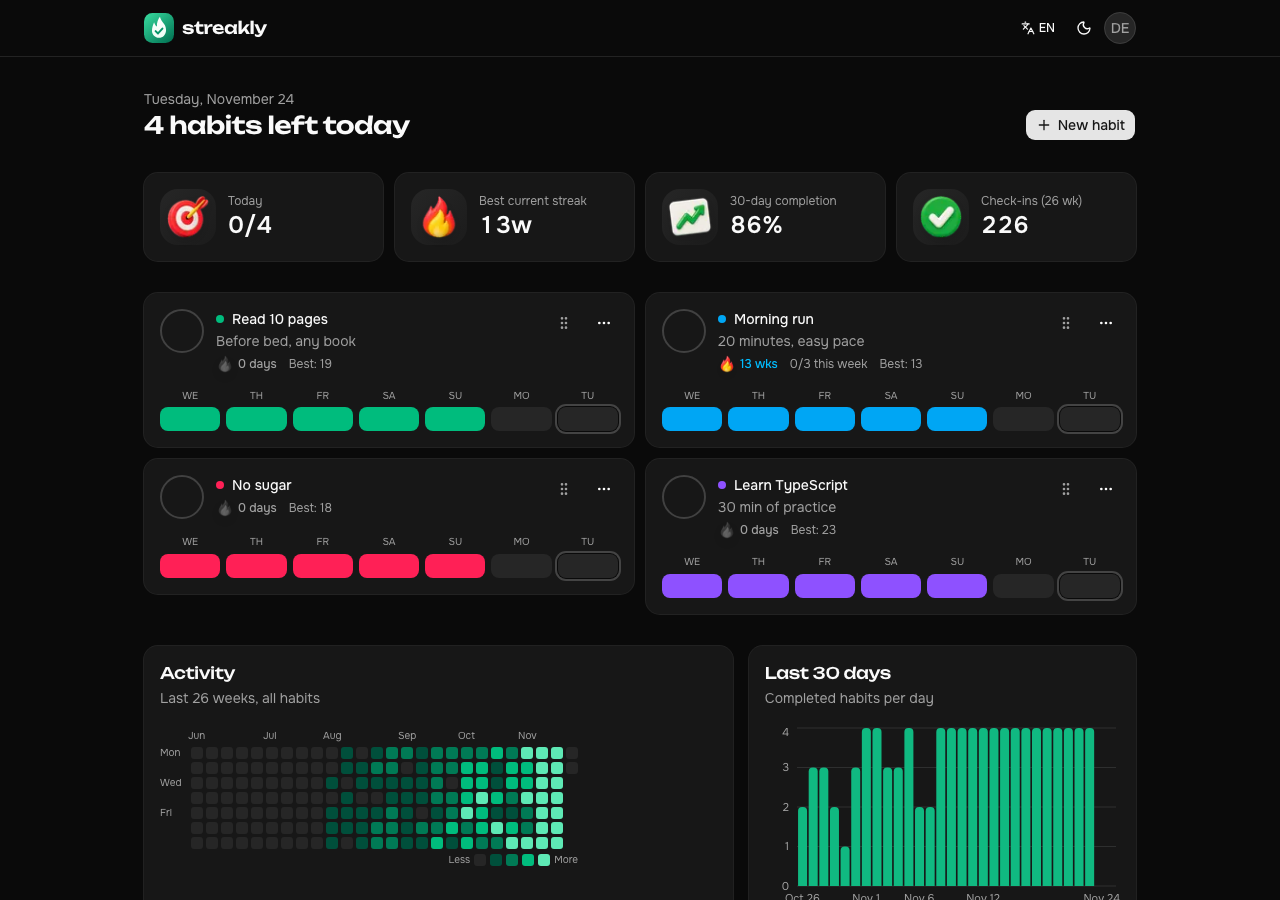
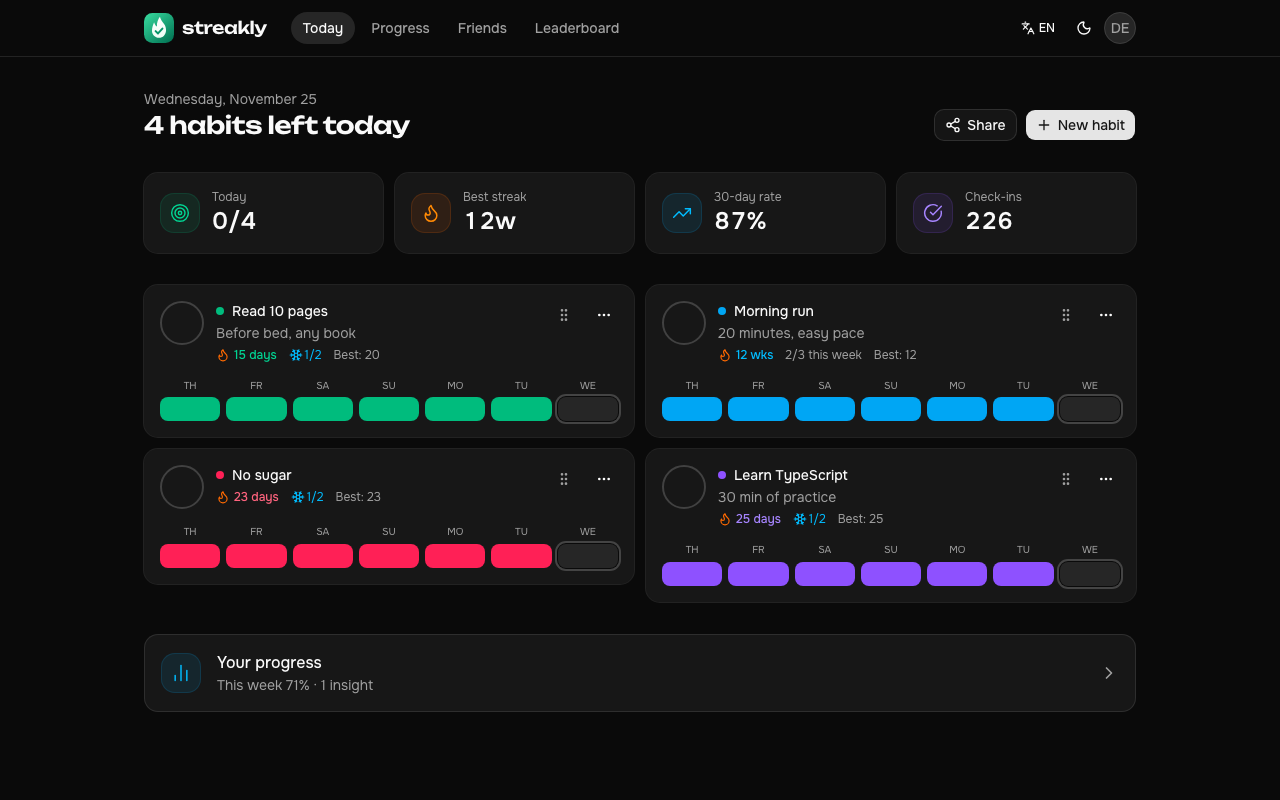
docs: rewrite README; fresh screenshots
- what makes Streakly different (with the research behind each idea),
  grouped features, tech stack, architecture tree, data model, how the
  streak engine / caching / reminders / one-tap check-in / offline /
  share cards work, security & privacy, testing & CI, setup (DB,
  reminders, Google sign-in), deployment, roadmap, credits
- new screenshots: Today (light/dark), Progress, phone with the tab bar,
  share card, leaderboard, public profile
- shorter English stat label ("30-day rate")

diff --git a/e2e/dashboard.spec.ts b/e2e/dashboard.spec.ts
@@ -39,7 +39,7 @@ test.beforeEach(async ({ page }) => {
 
 test("dashboard shows habits and stats", async ({ page }) => {
   await expect(page.locator("section h3")).toHaveCount(4)
-  await expect(page.getByText("30-day completion")).toBeVisible()
+  await expect(page.getByText("30-day rate")).toBeVisible()
   await page.goto("/progress")
   await expect(page.getByText("Activity", { exact: true })).toBeVisible()
 })

diff --git a/src/i18n/dictionaries/en.ts b/src/i18n/dictionaries/en.ts
@@ -97,7 +97,7 @@ export const en = {
     createFirst: "Create your first habit",
     statToday: "Today",
     statBestStreak: "Best streak",
-    statCompletion: "30-day completion",
+    statCompletion: "30-day rate",
     statCheckIns: "Check-ins",
     activity: "Activity",
     activitySub: "Last 26 weeks, all habits",

diff --git a/README.md b/README.md
@@ -1,148 +1,246 @@
-<img src="public/brand/mark.svg" width="56" alt="" />
+<p align="center">
+  <img src="public/brand/mark.svg" width="72" alt="Streakly logo" />
+</p>
 
-# Streakly
-
-[![CI](https://github.com/MasrurMansurov/streakly/actions/workflows/ci.yml/badge.svg)](https://github.com/MasrurMansurov/streakly/actions/workflows/ci.yml)
-
-A daily habit tracker with streaks, a GitHub-style activity heatmap and shareable public profiles.
-
-**🌐 Live:** https://streakly-pied-six.vercel.app
-
-**Demo account:** `demo@streakly.dev` / `streakly-demo` · public profile: [/u/demo](https://streakly-pied-six.vercel.app/u/demo)
+<h1 align="center">Streakly</h1>
 
 <p align="center">
-  <img src="docs/screenshots/landing.png" alt="Landing page" width="98%" />
+  <b>A habit tracker built around how habits actually stick</b> — forgiving streaks, if-then plans,<br/>
+  shared streaks with friends and insights mined from your own history.
+</p>
+
+<p align="center">
+  <a href="https://github.com/MasrurMansurov/streakly/actions/workflows/ci.yml"><img src="https://github.com/MasrurMansurov/streakly/actions/workflows/ci.yml/badge.svg" alt="CI" /></a>
+  <img src="https://img.shields.io/badge/Next.js-16-black?logo=next.js" alt="Next.js 16" />
+  <img src="https://img.shields.io/badge/Supabase-Postgres%20%2B%20RLS-3ecf8e?logo=supabase&logoColor=white" alt="Supabase" />
+  <img src="https://img.shields.io/badge/TypeScript-strict-3178c6?logo=typescript&logoColor=white" alt="TypeScript" />
+  <a href="LICENSE"><img src="https://img.shields.io/badge/license-MIT-blue" alt="MIT license" /></a>
+</p>
+
+<p align="center">
+  <a href="https://streakly-pied-six.vercel.app"><b>Live app</b></a> ·
+  <a href="https://streakly-pied-six.vercel.app/en/u/demo">Demo profile</a> ·
+  <a href="https://streakly-pied-six.vercel.app/en/leaderboard">Leaderboard</a>
+</p>
+
+<p align="center">
+  Try it with the demo account: <code>demo@streakly.dev</code> / <code>streakly-demo</code> — or sign in with Google.
+</p>
+
+<p align="center">
+  <img src="docs/screenshots/dashboard-light.png" alt="Today screen (light)" width="49%" />
+  <img src="docs/screenshots/dashboard-dark.png" alt="Today screen (dark)" width="49%" />
 </p>
 <p align="center">
-  <img src="docs/screenshots/dashboard-light.png" alt="Dashboard (light)" width="49%" />
-  <img src="docs/screenshots/dashboard-dark.png" alt="Dashboard (dark)" width="49%" />
+  <img src="docs/screenshots/progress.png" alt="Progress: weekly review, insights, activity, achievements" width="59%" />
+  <img src="docs/screenshots/mobile.png" alt="Phone layout with the tab bar" width="20%" />
 </p>
 <p align="center">
-  <img src="docs/screenshots/public-profile.png" alt="Public profile" width="49%" />
-  <img src="docs/screenshots/og-image.png" alt="Generated link preview" width="49%" />
+  <img src="docs/screenshots/share-card.png" alt="Shareable monthly card" width="32%" />
+  <img src="docs/screenshots/leaderboard.png" alt="Leaderboard with ranks" width="32%" />
+  <img src="docs/screenshots/public-profile.png" alt="Public profile" width="32%" />
 </p>
+
+---
+
+## Contents
+
+- [Why Streakly is different](#why-streakly-is-different)
+- [Features](#features)
+- [Tech stack](#tech-stack)
+- [Architecture](#architecture)
+- [Security & privacy](#security--privacy)
+- [Testing & CI](#testing--ci)
+- [Getting started](#getting-started)
+- [Deployment](#deployment)
+- [Roadmap](#roadmap)
+- [License & credits](#license--credits)
+
+## Why Streakly is different
+
+Most trackers punish you for one bad day and then wonder why people quit. Streakly's features come from a
+research review of retention mechanics (Duolingo, Strava, Wordle…) and habit-formation science:
+
+| Idea | In Streakly | Why |
+|---|---|---|
+| Coming back should be cheap | Streak **freezes** (2/month), **repair** a missed day, **vacation mode**, a gentle note instead of "you broke it", a "welcome back" on return | Seeing a broken streak lowers continuation; repairability softens it. Rewarding the return after a miss was the best of 54 programs in a 61k-person megastudy |
+| Do it when you remember | **One-tap check-in from the notification**, app-icon badge, **mini versions** ("at least 1 page") | Friction at the moment of intent is where habits die |
+| Tie habits to a moment | **If-then plans** ("After my morning coffee → read") | Implementation intentions: d = 0.65 across 94 tests |
+| Comparison beats support | **Pacts** (a shared streak that grows only when both check in), a **leaderboard** with ranks | In RCTs, competition and peer comparison outperform "supportive" designs |
+| Show people their own patterns | **Insights**: habits that go together, weak weekdays, "never miss twice" rate | Self-monitoring works best when it's specific and actionable |
 
 ## Features
 
-- **One-tap check-ins** with optimistic UI (`useOptimistic`), plus a 7-day strip to fix missed days
-- **Streaks:** current and best streak per habit, 30-day completion rate
-- **Streak freezes:** a single missed day doesn't break a daily streak, up to 2× a month per habit (two misses in a row still do). Deterministic — derived from the check-ins, nothing extra stored
-- **If-then plans:** "When? After my morning coffee" on each habit (one-tap suggestions); shown on the card, used in the reminder text, and Insights suggest a plan for a struggling habit
-- **Share cards & "My year in habits":** a 1080×1080 PNG for the week, month or year (stats + Wordle-style grid / calendar / year heatmap) rendered with next/og in the brand fonts (Latin + Cyrillic), shared via the Web Share API with a file, downloaded, or copied as an emoji grid
-- **Mini versions:** "At least: 1 page" keeps the streak on a hard day; shown as a lighter check-in, upgradable to full
-- **Coming back is easy:** repair a streak once a month per habit (yesterday or the day before), a gentle note instead of "you broke it", a "welcome back" on the first check-in after a break, and vacation mode (up to 30 days: streaks paused, reminders quiet; no retroactive pauses)
-- **One-tap check-in from notifications** ("✓ Read 10 pages" button, handled by the service worker via a same-origin API), an app-icon badge with habits left today, and a daily reminder that leads with the streak at risk
-- **Flexible goals:** every day or N× per week (weekly habits keep streaks in weeks)
-- **Activity heatmap** (26 weeks) and a 30-day bar chart (Recharts)
-- **Drag-and-drop ordering** (dnd-kit) — mouse, touch and keyboard, with screen reader announcements
-- **Habit page** with a 12-month heatmap, monthly chart and weekday breakdown; **archive** with restore and undo
-- **Notes on check-ins** — private, owner-only (kept out of the world-readable logs table)
-- **Friends** — follow public profiles; a 7-day feed of their check-ins. Follow lists are visible only to the two people involved
-- **Find people & leaderboard** — search public profiles by name or @username (input sanitized before it reaches the PostgREST filter) and follow from the results; a public leaderboard of the last 30 days (score = check-ins + 2 × active days) with ranks from Newcomer to Legend, colored names and "points to next rank"
-- **Pacts (shared streaks)** — invite a friend: each commits one habit and the duo streak grows only on days you *both* check in; see whether your partner is done today. A security-definer function reveals the partner's dates only for that one habit and only to the other participant
-- **Insights** — patterns found in your own last 12 weeks: habits that go together ("on days you run, you read 85% vs 40%"), a daily habit's weak weekday, and your "never miss twice" recovery rate — computed locally, no third-party services
-- **Weekly review** — this week vs. the same days last week, an 8-week trend, the habit on a roll and the one falling behind
-- **Starter templates** — one tap adds a ready-made habit on the empty dashboard
-- **Your data** — export everything to CSV, or delete the account (cascades through every table, avatar files included)
-- **Achievements** — badges for 7/30/100-day streaks and 1/100/500 check-ins, with progress bars and an unlock toast; all-time stats are computed in Postgres (gaps-and-islands window query)
-- **Profile photo** upload to Supabase Storage (per-user folder, size/type limits enforced by the bucket and RLS)
-- **Public profile** at `/u/<username>`, opt-in; archived habits stay private, with a generated OG image for link previews
-- **Auth:** email + password, optional GitHub / Google OAuth, via Supabase Auth with cookie sessions (`@supabase/ssr`)
-- **Timezone-aware:** "today" is computed in the user's own timezone, not the server's
-- **Daily reminders (Web Push):** pick a time; a notification arrives only if habits are still due today. Supabase `pg_cron` calls an Edge Function every 15 min; VAPID keys and the cron token live in Supabase Vault
-- **English & Russian:** `/en/…` and `/ru/…` URLs (language picked from the browser, switcher in the header), proper Russian plurals via `Intl.PluralRules`, localized dates, validation messages and push notifications
-- **Installable & offline (PWA):** add to the home screen; a service worker caches static assets and the last copy of each page, so the app opens without a connection. Check-ins made offline are queued on the device, shown immediately and synced when you're back online; cached pages are cleared on sign-out
-- **Brand & type:** custom logo (a flame with a check mark cut in — streak + habit done), Unbounded for headings, Onest for text; both with full Cyrillic
-- **One icon style & motion:** thin line icons on soft tinted tiles everywhere, medal-style achievement badges drawn in CSS, staggered entrance, check-in confetti — all CSS, disabled for `prefers-reduced-motion`
-- Dark mode, responsive layout, accessible controls
+### Daily loop
+- **Today screen** — one-tap check-ins with optimistic UI, a 7-day strip to fix past days, drag-and-drop ordering (mouse, touch, keyboard).
+- **Flexible goals** — every day or N× per week (weekly habits keep streaks in weeks).
+- **Mini versions** — "At least: 1 page" keeps the streak on a hard day; shown lighter and upgradable to a full check-in.
+- **If-then plans** — a "When?" for each habit with one-tap suggestions; shown on the card and used in reminders.
+- **Starter templates** — 8 ready-made habits (with plans and mini versions) on an empty dashboard.
+- **Notes** on check-ins, an archive with restore and undo.
+
+### Streaks that forgive
+- **Freezes** — a single missed day doesn't break a daily streak, up to 2× a month per habit (two misses in a row still do). Derived from the check-ins, nothing stored.
+- **Streak repair** — once a month per habit, a day missed yesterday or the day before; offered only when it revives a 3+ day streak.
+- **Vacation mode** — up to 30 days: streaks are bridged (daily and weekly), reminders and pact nudges stay quiet. No retroactive pauses.
+
+### Progress & insights
+- **Weekly review** — this week vs. the same days of last week, an 8-week trend, the habit on a roll and the one falling behind.
+- **Insights** from the last 12 weeks — habits that go together ("on days you run, you read 85% vs 40%"), a habit's weak weekday, your "never miss twice" recovery rate, and a nudge to add a plan to a struggling habit.
+- **Activity heatmap** (26 weeks), a 30-day chart, a 12-month heatmap per habit, **achievements** drawn as CSS medals.
+
+### Social
+- **Find people** by name or @username and follow public profiles; a 7-day feed of their check-ins.
+- **Pacts** — invite someone you follow: each commits one habit, the duo streak grows only on days you *both* check in, and your partner gets a push ("your turn" / "you both did it").
+- **Leaderboard** of the last 30 days (score = check-ins + 2 × active days) with ranks from Newcomer to Legend.
+- **Share cards** — a 1080×1080 PNG for the week, month or "My year in habits", shared via the Web Share API, downloaded, or copied as a Wordle-style emoji grid.
+- **Public profile** at `/u/<username>` (opt-in) with a generated link preview.
+
+### Reminders, PWA & offline
+- **Daily reminder** at your time (Web Push) — only if something is still due; leads with the streak at risk and uses your if-then plan.
+- **One-tap check-in from the notification** (Chrome/Edge/Android/Firefox; elsewhere a tap opens the right habit) and an app-icon badge with habits left.
+- **Installable PWA** with a phone tab bar; **offline**: pages open without a connection, check-ins are queued on the device and synced later.
+
+### Accounts, data & languages
+- Email + password or **Google** sign-in (any provider enabled in Supabase shows up automatically); readable usernames generated from the Google name, Cyrillic transliterated.
+- **Export** everything to CSV, **delete the account** (cascades through every table, avatar files included).
+- **English & Russian** — `/en/…` and `/ru/…`, proper Russian plurals, localized dates, validation messages and push texts.
+- Privacy policy and terms pages, light/dark themes, Vercel Analytics & Speed Insights.
 
 ## Tech stack
 
 | | |
 |---|---|
-| Framework | Next.js 16 (App Router, Server Actions, Cache Components, Partial Prefetching) |
+| Framework | **Next.js 16** — App Router, Server Actions, Cache Components (`"use cache"`, `cacheTag`/`updateTag`), Partial Prefetching, `proxy.ts`, `next/og` |
 | Language | TypeScript (strict) |
-| UI | Tailwind CSS v4, shadcn/ui (Base UI), lucide-react, sonner, next-themes |
-| Forms | react-hook-form + zod (same schemas validate on client and server) |
-| Backend | Supabase: Postgres, Auth, Storage, Row Level Security, Edge Functions (Deno), pg_cron, Vault |
-| Charts | Recharts + a hand-made heatmap |
-| Tests | Vitest (unit) + Playwright (e2e, desktop & mobile) |
-| CI | GitHub Actions: lint, typecheck, unit tests, build |
-| Hosting | Vercel (auto-deploy from `main`) |
+| UI | Tailwind CSS v4, shadcn/ui on Base UI, lucide-react, Recharts, dnd-kit, sonner, next-themes; fonts Unbounded + Onest |
+| Forms | react-hook-form + zod — the same schemas validate on the client and in Server Actions |
+| Backend | **Supabase** — Postgres with Row Level Security, Auth (email + Google), Storage, Edge Functions (Deno), `pg_cron`, `pg_net`, Vault |
+| Push | Web Push (VAPID) from an Edge Function; a service worker for notifications, actions and offline |
+| Tests | Vitest (unit) + Playwright (e2e on desktop and a phone profile) |
+| CI/CD | GitHub Actions (lint, typecheck, unit tests, build) · Vercel (auto-deploy from `main`, functions in `fra1` next to the database) |
 
 ## Architecture
 
 ```
 src/
-├── proxy.ts                  # refreshes the Supabase session, guards /dashboard and /settings
+├── proxy.ts                    # locale redirect, auth guard + session refresh — only where needed
 ├── app/
-│   ├── page.tsx              # landing (static)
-│   ├── login/                # sign in / sign up
-│   ├── auth/callback/        # email confirmation → session
-│   ├── (app)/dashboard/      # habits, stats, heatmap, chart
-│   ├── (app)/settings/       # profile and public toggle
-│   ├── u/[username]/         # public profile (server-cached, tag-invalidated)
-│   └── actions/              # server actions; each one re-checks the session
+│   ├── [locale]/               # every page lives under /en or /ru
+│   │   ├── page.tsx            # landing (static)
+│   │   ├── (app)/              # signed-in area: dashboard (Today), progress, friends,
+│   │   │                       #   habits/[id], archive, settings
+│   │   ├── leaderboard/        # public, cached
+│   │   ├── u/[username]/       # public profile + generated OG image
+│   │   ├── login/ privacy/ terms/
+│   ├── actions/                # Server Actions — each re-checks the session, validates with zod
+│   ├── api/checkin/            # one-tap check-in for notification buttons (same-origin only)
+│   ├── api/share-card/         # PNG / emoji text share card (next/og)
+│   └── auth/callback/          # email confirmation & OAuth → session
+├── components/                 # app nav + tab bar, heatmap, medals, dialogs, shadcn/ui
+├── i18n/                       # typed dictionaries (en, ru), plurals, server/client helpers
 └── lib/
-    ├── data.ts               # data access layer (server-only)
-    ├── streaks.ts, dates.ts  # pure logic, unit-tested
-├── i18n/                     # dictionaries (en, ru), locale helpers, plurals
-    ├── validation.ts         # zod schemas
-    └── supabase/             # server, proxy and public clients + generated types
-supabase/migrations/          # schema, RLS policies, triggers, cron job
-supabase/functions/           # send-reminders Edge Function (Web Push)
+    ├── data.ts                 # data access layer (server-only)
+    ├── streaks.ts              # streaks, freezes, repairs, vacation bridges   ┐
+    ├── insights.ts review.ts   # patterns, weekly review                       │ pure,
+    ├── pacts.ts share.ts       # duo streaks, share-card summaries              │ unit-tested
+    ├── ranks.ts offline-queue.ts csv.ts dates.ts …                             ┘
+    └── supabase/               # server, browser, proxy and public clients + generated types
+supabase/
+├── migrations/                 # schema, RLS policies, functions, triggers, cron (20 migrations)
+└── functions/send-reminders/   # Web Push: daily reminders, pact nudges, test pushes
+public/sw.js                    # service worker: push, notification actions, offline cache
 ```
 
-### Database
+### Data model
 
 ```
-auth.users ─1:1─ profiles (username, display_name, bio, is_public)
-                    └─1:n─ habits (name, color, position, archived_at)
-                              └─1:n─ habit_logs (log_date)  unique(habit_id, log_date)
+auth.users ─1:1─ profiles (username, display_name, bio, avatar_url, is_public)
+                   ├─1:n─ habits (name, color, target_per_week, cue, mini_label, position, archived_at)
+                   │        ├─1:n─ habit_logs   (log_date, is_mini)        unique(habit_id, log_date)
+                   │        │        └─1:1─ habit_notes (note)
+                   │        └─1:n─ habit_repairs (day)                     one per habit per month
+                   ├─1:n─ pauses (start_date, end_date)                    vacation mode, ≤ 30 days
+                   ├─n:m─ follows (follower_id, following_id)
+                   ├─n:m─ pacts (inviter/invitee + their habits, status)  one per pair
+                   ├─1:1─ reminder_settings (time, timezone, locale, enabled)
+                   └─1:n─ push_subscriptions (endpoint, keys)
 ```
 
-**Security is enforced in Postgres, not in the UI:**
-- RLS on every table. Owners have full access. Anyone can *read* rows of profiles with `is_public = true`.
-- A trigger checks that a log belongs to a habit of the same user.
-- A profile row is created automatically on sign-up (a `security definer` trigger, not callable through the API).
+### How some of it works
+- **Streaks are pure functions.** Freezes, repairs and vacation days are "bridges" that keep a run alive without counting as check-ins. The same code runs on the dashboard, habit page, public profile and share cards.
+- **Caching.** Public profiles and the leaderboard are fetched with a cookie-less client inside `"use cache"` and invalidated with `updateTag` when the owner changes data. Signed-in pages render at request time behind `<Suspense>`; guests get public pages straight from the CDN — the proxy doesn't even run for them.
+- **Reminders.** `pg_cron` calls the `send-reminders` Edge Function every 15 minutes with a token from Vault. It finds users whose local reminder time just passed, claims the day atomically (no double sends), builds the message (streak at risk → if-then plan → list) and sends Web Push with a one-tap action. VAPID keys are generated inside the database and never leave Vault.
+- **One-tap check-in.** The notification action is handled by the service worker, which calls `POST /api/checkin` with the user's cookies; the route accepts same-origin requests only, marks today in the user's timezone, refreshes the public profile cache and nudges a pact partner via `after()`.
+- **Offline.** Static assets are cache-first, pages network-first with the last good copy as a fallback. Check-ins made offline go to a device queue (last toggle per habit/day wins) and are replayed in order when the browser is back online.
+- **Share cards** are rendered with `next/og` (Satori) using the brand fonts with separate Latin and Cyrillic subsets.
 
-**Caching:** public profiles are fetched with a cookie-less anon client inside `"use cache"` and invalidated with `updateTag("profile:<username>")` when the owner changes data. Authenticated pages are rendered at request time behind `<Suspense>`.
+## Security & privacy
+
+Security is enforced in Postgres, not in the UI:
+- **RLS on every table.** Owners have full access; anyone may *read* rows of profiles that opted into `is_public`. A trigger checks that a log belongs to a habit of the same user.
+- **Column-level grants** where an update must be narrow (e.g. only the invitee can accept a pact; logs can only switch mini ↔ full; pauses can only end earlier — enforced by a trigger, so vacation can't cover the past).
+- **`security definer` only when needed, and minimal:** `my_pacts()` reveals a partner's dates for the one habit in the pact, only to the other participant; `follow_counts()` returns two numbers; `delete_my_account()` deletes only `auth.uid()`. Aggregates like `leaderboard()` and `achievement_stats()` are `security invoker`, so RLS applies.
+- **Inputs that reach PostgREST filters are validated** (UUIDs) or reduced to a safe character set (people search).
+- **Secrets** (VAPID keys, the cron token) live in Supabase Vault; nothing sensitive is in env vars or the repo.
+- Usernames are generated from the OAuth name, never from the email. Data export and account deletion are one click in Settings.
+
+## Testing & CI
+
+- **55 unit tests** (Vitest) for the pure logic: streaks, freezes, repairs, vacation bridges, insights, weekly review, duo streaks, ranks, share summaries, the offline queue, CSV.
+- **54 end-to-end scenarios** (Playwright; 64 runs across a desktop and a phone profile) against a real build — including two-user pacts, data isolation between users, offline check-ins, the notification check-in endpoint, vacation mode, Google sign-in redirect and the share card. The same suite runs against production with `E2E_BASE_URL`.
+- **GitHub Actions** runs lint, typecheck, unit tests and a production build on every push.
+
+```bash
+npm test                 # unit tests
+npm run e2e              # builds the app and runs Playwright on :3100
+E2E_BASE_URL=https://streakly-pied-six.vercel.app npm run e2e   # against production
+npm run typecheck && npm run lint && npm run build
+```
 
 ## Getting started
 
+**Requirements:** Node.js 22+ (CI uses 24), a [Supabase](https://supabase.com) project.
+
 ```bash
+git clone https://github.com/MasrurMansurov/streakly.git
+cd streakly
 npm install
-cp .env.example .env.local   # fill in your Supabase URL and publishable key
+cp .env.example .env.local   # NEXT_PUBLIC_SUPABASE_URL, NEXT_PUBLIC_SUPABASE_PUBLISHABLE_KEY
 npm run dev
 ```
 
-### OAuth (optional)
+1. **Database** — apply `supabase/migrations` in order (`supabase db push`, or paste them into the SQL editor). This creates the schema, RLS policies, functions and the cron job.
+2. **Reminders** (optional) — the migrations already create the cron job and a random cron token in Vault. Deploy the Edge Function, then call it once with `{"action":"setup"}` (and the `x-cron-token` header) so it generates the VAPID keys inside Vault:
+   ```bash
+   supabase functions deploy send-reminders --no-verify-jwt
+   ```
+   If you fork, change the project URL in `20261124000600_schedule_reminders.sql` and `SITE_URL` in the function.
+3. **Google sign-in** (optional) — create an OAuth client (*Web application*) in Google Cloud with the redirect URI `https://<project-ref>.supabase.co/auth/v1/callback`, then enable Google in Supabase → Authentication → Sign In / Providers. The button appears on the login page automatically — no env var or redeploy. Add your site's `/auth/callback` to Supabase → URL Configuration → Redirect URLs.
 
-1. Create an OAuth app ([GitHub](https://github.com/settings/developers) / [Google Cloud](https://console.cloud.google.com/apis/credentials)) with the callback URL `https://<project-ref>.supabase.co/auth/v1/callback`.
-2. Enable the provider in Supabase → Authentication → Sign In / Providers with its client ID and secret.
-3. Add `https://your-domain/**` to Supabase → Authentication → URL Configuration → Redirect URLs.
-4. Set `NEXT_PUBLIC_AUTH_PROVIDERS=github,google` and redeploy.
+| Env var | |
+|---|---|
+| `NEXT_PUBLIC_SUPABASE_URL` | Supabase project URL |
+| `NEXT_PUBLIC_SUPABASE_PUBLISHABLE_KEY` | publishable (anon) key |
+| `NEXT_PUBLIC_SITE_URL` | optional — absolute URLs for OG images, sitemap, robots |
 
-Apply the migrations from `supabase/migrations` to your Supabase project (SQL editor or `supabase db push`).
+## Deployment
 
-```bash
-npm test          # unit tests
-npm run e2e       # Playwright e2e (builds and starts the app on :3100)
-E2E_BASE_URL=https://streakly-pied-six.vercel.app npm run e2e   # against production
-npm run typecheck
-npm run lint
-npm run build
-```
+Vercel deploys `main` automatically. Functions run in `fra1` (see `vercel.json`) next to the Supabase database in Frankfurt — every query stays in-region. Set the env vars above in the Vercel project; enable Web Analytics and Speed Insights in the dashboard if you want them.
 
 ## Roadmap
 
-- [x] Google / GitHub OAuth (behind `NEXT_PUBLIC_AUTH_PROVIDERS`)
-- [x] Drag-and-drop habit ordering (dnd-kit)
-- [x] Weekly targets ("3× per week")
-- [x] Reminders (Edge Function + cron)
-- [x] OG image for public profiles
-- [x] Playwright e2e tests
+Done in the latest rounds — research-backed retention features: one-tap check-ins from notifications, mini versions, streak repair & vacation mode, if-then plans, share cards and "My year in habits", Google sign-in, the Progress page and phone tab bar.
 
-## License
+Next:
+- [ ] **Pacts 2.0** — weekly duels and groups of 2–6, photo/note proof, soft stakes ("loser buys coffee"), a shared daily moment
+- [ ] **Habit strength** (a short automaticity check) and **graduating** a habit around day 66
+- [ ] One-tap **mood & energy**, so Insights can show "habit → how I feel"
+- [ ] An **AI weekly letter** grounded in your own insights
+- [ ] A **Telegram bot** for check-ins (a widget substitute for the web)
+
+## License & credits
 
 [MIT](LICENSE) © 2026 Masrur Mansurov. The Streakly name and logo identify this project.
+
+Fonts: [Unbounded](https://github.com/googlefonts/unbounded) and [Onest](https://github.com/simpals/onest), SIL Open Font License 1.1 (see `src/assets/fonts`). Icons: [Lucide](https://lucide.dev) (ISC).
